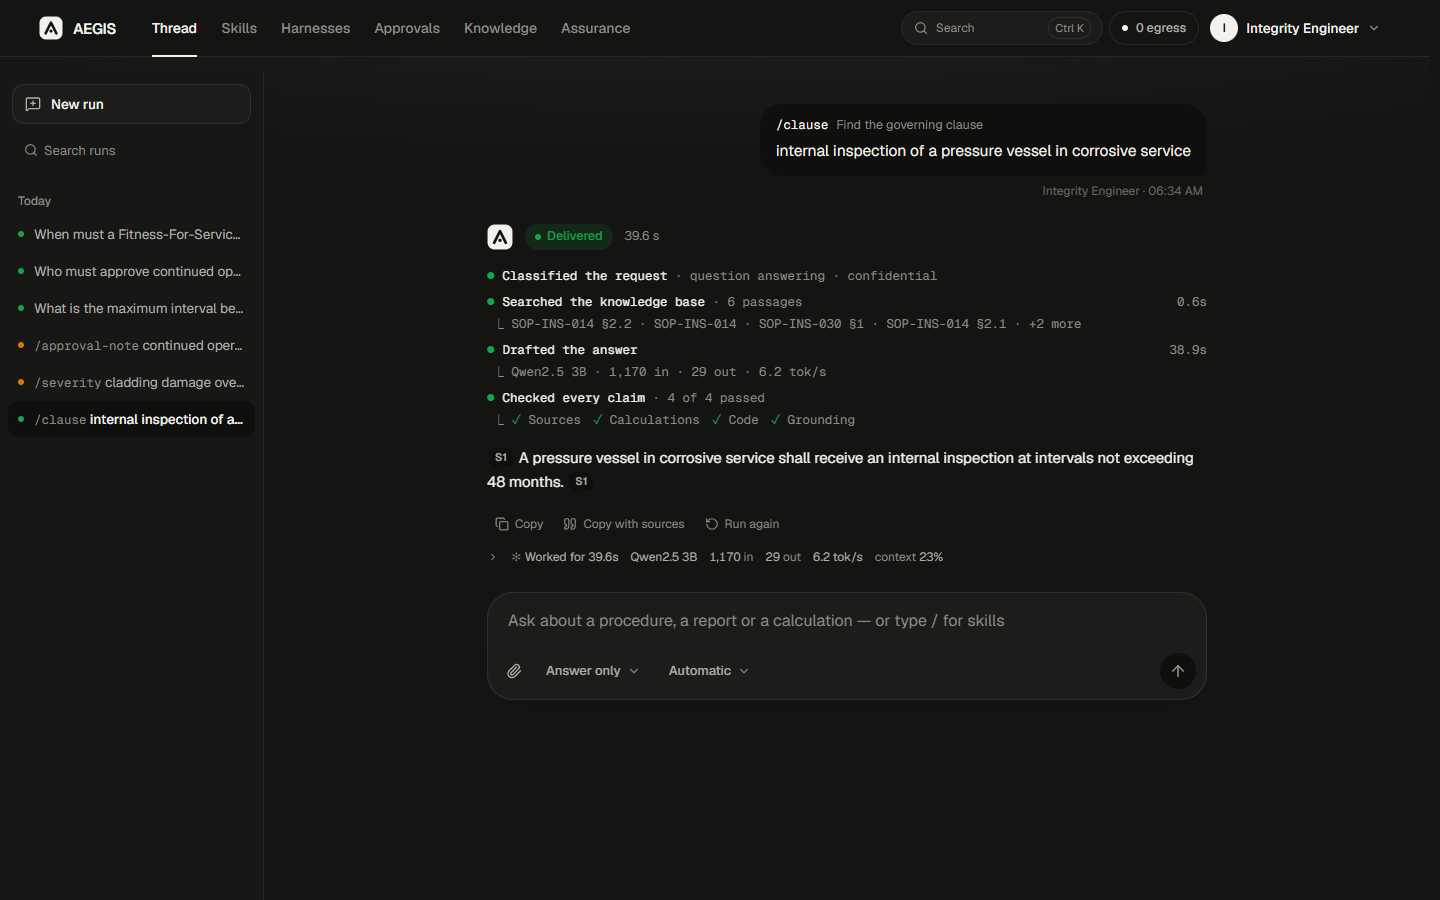
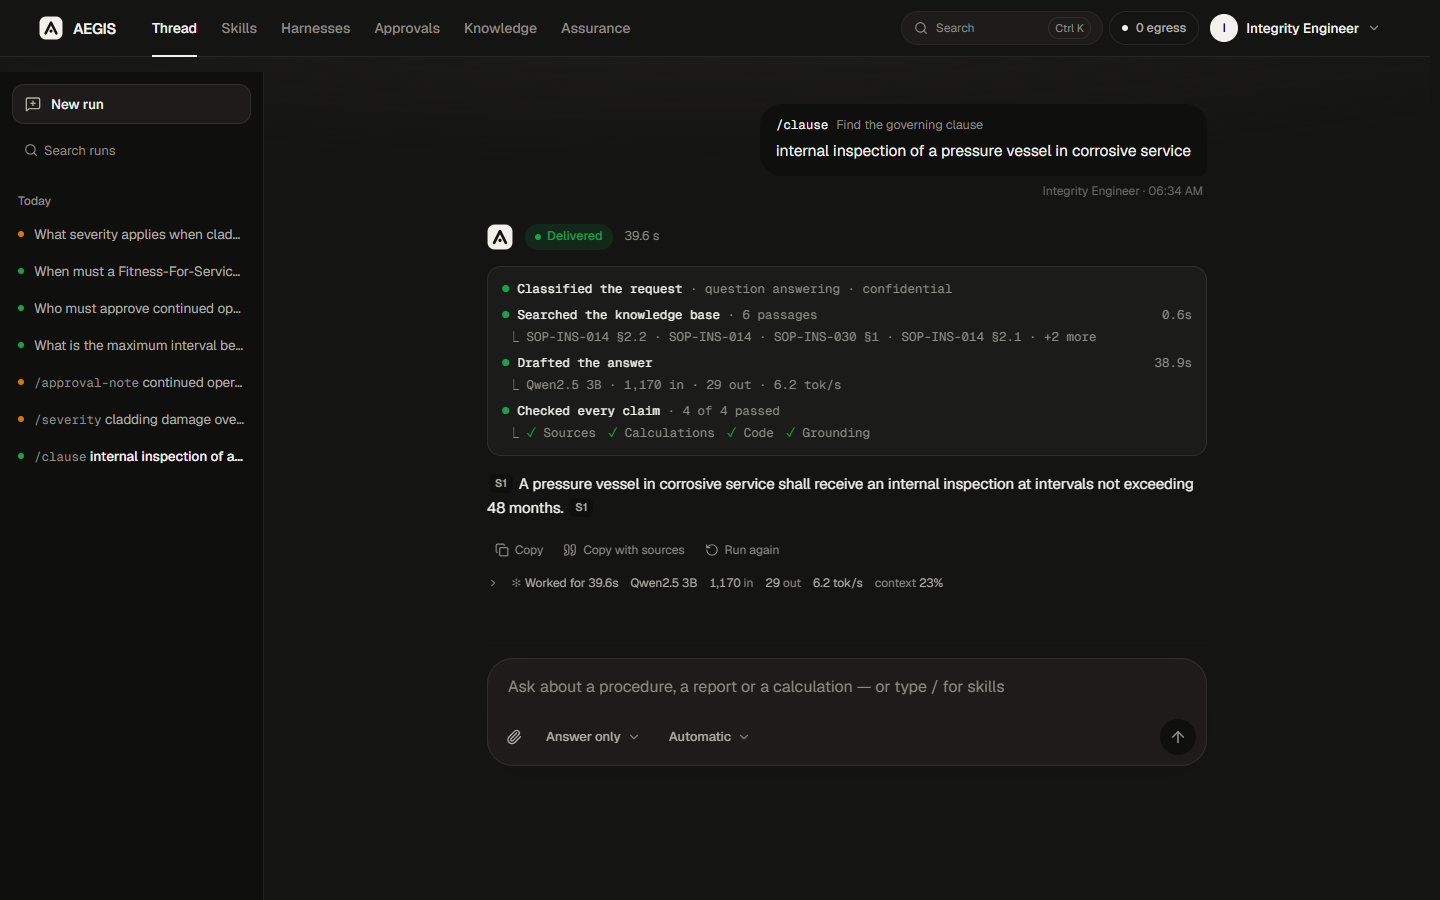
Separate the thread's grounds, give sign-in a night panel, fix what spilled
The thread was one sheet of paper. Now each part has its own ground,
all of it static CSS -- nothing draws per frame on the thread that
parses the event stream:

- The run list sits on the recessed ground, set off by its rule.
- The run's log is a terminal card of its own, so the machine's record
  and the answer's prose no longer read as one block.
- The composer, docked, has the thread fade out beneath it instead of
  text meeting its edge.
- The empty thread has a faint dot lattice around the greeting. It
  reaches past the column but stops short of the run list.

Sign-in is split from a laptop's width up: the landing page's night
ground with its headline and three guarantees on the left, the form on
the right. On a phone it is the form alone, as before.

An overflow audit ran every app screen at 390, 768, 1024, 1280 and 1440
pixels, for each role that sees it: page-level horizontal scroll, boxes
whose content paints past them, and anything past the viewport's edge.
Nothing scrolled sideways. What it and a look at each screen found:

- Knowledge listed each document by its absolute path, which printed
  the machine's user folder into every screenshot; it shows the path
  from the project root, with the full path on hover. The ingested
  column wrapped "06:33 AM" onto a second line and is now 24-hour.
- A tab row too wide for a phone cut its last tab off with no sign of
  more; it now fades at the edge and packs tighter below 640px.
[…]

diff --git a/frontend/components/registry/tables.tsx b/frontend/components/registry/tables.tsx
@@ -19,7 +19,18 @@ function day(iso: string) {
   const d = new Date(iso)
   return Number.isNaN(d.getTime())
     ? '—'
-    : d.toLocaleString([], { day: '2-digit', month: 'short', hour: '2-digit', minute: '2-digit' })
+    : d.toLocaleString([], { day: '2-digit', month: 'short', hour: '2-digit', minute: '2-digit', hour12: false })
+}
+
+/**
+ * Where a document came from, from the project root down: the full path
+ * names the machine's user folder, which a screenshot has no need to carry.
+ * The full path stays on hover for the operator who wants the file.
+ */
+function shownPath(path: string) {
+  const unix = path.split('\\').join('/')
+  const at = unix.search(/\/(sample_data|storage)\//)
+  return at >= 0 ? unix.slice(at + 1) : unix.split('/').slice(-2).join('/')
 }
 
 const TH = 'px-4 py-2 text-left font-mono text-ledger font-normal uppercase tracking-[var(--ls-ledger)] text-foreground-muted'
@@ -82,7 +93,9 @@ export function DocumentsTable({ documents, emptyAction }: { documents: Knowledg
                   <span className="min-w-0 text-body font-medium text-foreground">{d.title}</span>
                   <ClassificationTag level={d.classification} />
                 </div>
-                <span className="truncate font-mono text-ledger text-foreground-muted">{d.source_path}</span>
+                <span className="truncate font-mono text-ledger text-foreground-muted" title={d.source_path}>
+                  {shownPath(d.source_path)}
+                </span>
                 <span className="tabular flex flex-wrap gap-x-3 font-mono text-ledger text-foreground-secondary">
                   <span>{d.department}</span>
                   <span>v{d.version}</span>
@@ -135,7 +148,7 @@ export function DocumentsTable({ documents, emptyAction }: { documents: Knowledg
                       {d.title}
                     </span>
                     <span className="block truncate font-mono text-ledger text-foreground-muted" title={d.source_path}>
-                      {d.source_path} · v{d.version}
+                      {shownPath(d.source_path)} · v{d.version}
                     </span>
                   </div>
                   <div role="cell" className={cn(TD, 'truncate font-mono text-ui text-foreground-secondary')}>
@@ -153,7 +166,7 @@ export function DocumentsTable({ documents, emptyAction }: { documents: Knowledg
                   >
                     {formatBytes(d.size_bytes)}
                   </div>
-                  <div role="cell" className={cn(TD, 'tabular hidden font-mono text-ui text-foreground-secondary lg:block')}>
+                  <div role="cell" className={cn(TD, 'tabular hidden whitespace-nowrap font-mono text-ui text-foreground-secondary lg:block')}>
                     {day(d.ingested_at)}
                   </div>
                   <div

diff --git a/frontend/components/sign-in/sign-in-view.tsx b/frontend/components/sign-in/sign-in-view.tsx
@@ -14,6 +14,7 @@ import { useRole } from '@/components/role-context'
 import { Wordmark } from '@/components/landing/wordmark'
 import { cn } from '@/lib/utils'
 import { HostStatus } from './host-status'
+import { HERO } from '@/components/landing/copy'
 
 /**
  * Where to go after signing in: the path the guard bounced from, if it is a
@@ -131,12 +132,46 @@ export function SignInView({ api }: { api: string }) {
   }
 
   return (
-    <div className="flex min-h-dvh flex-col bg-background">
-      <header className="ae-shell flex h-16 items-center justify-between">
+    <div className="flex min-h-dvh bg-background">
+      {/*
+        The brand panel, from a laptop's width up: the landing page's night
+        ground and its three guarantees, so signing in reads as the same
+        product as the page that led here. Static CSS; nothing moves.
+      */}
+      <aside
+        data-theme="dark"
+        aria-label="About AEGIS"
+        className="ae-night ae-signin-panel sticky top-0 hidden h-dvh w-[44%] max-w-[620px] shrink-0 flex-col justify-between p-10 lg:flex xl:p-14"
+      >
         <Link
           href="/"
           aria-label="AEGIS — home"
-          className="rounded-full focus-visible:shadow-[var(--focus-ring-on-paper)] focus-visible:outline-none"
+          className="w-fit rounded-full focus-visible:shadow-[var(--focus-ring)] focus-visible:outline-none"
+        >
+          <Wordmark />
+        </Link>
+        <div>
+          <p className="ae-kicker m-0">On your own hardware</p>
+          <h2 className="mt-4 max-w-[16ch] text-[clamp(2rem,3vw,2.7rem)] font-semibold leading-[1.06] tracking-[-0.038em] text-foreground">
+            Every answer cited, <span className="soft">checked and recorded.</span>
+          </h2>
+          <ul className="ae-hero-proof mt-8 flex-col items-start justify-start gap-3">
+            {HERO.proof.map((line) => (
+              <li key={line}>{line}</li>
+            ))}
+          </ul>
+        </div>
+        <p className="m-0 max-w-[44ch] text-[0.82rem] leading-[1.55] text-foreground-muted">
+          Models, retrieval and the audit chain run on the machine you are signing in to.
+        </p>
+      </aside>
+
+      <div className="flex min-h-dvh min-w-0 flex-1 flex-col">
+      <header className="flex h-16 items-center justify-between px-5 sm:px-8">
+        <Link
+          href="/"
+          aria-label="AEGIS — home"
+          className="rounded-full focus-visible:shadow-[var(--focus-ring-on-paper)] focus-visible:outline-none lg:invisible"
         >
           <Wordmark />
         </Link>
@@ -265,6 +300,7 @@ export function SignInView({ api }: { api: string }) {
           </div>
         </div>
       </main>
+      </div>
     </div>
   )
 }

diff --git a/frontend/app/globals.css b/frontend/app/globals.css
@@ -2218,7 +2218,8 @@ html[data-theme='dark'],
   }
   .ae-hero-stage { position: relative; z-index: 2; margin-top: calc(-1 * var(--ae-overlap)); }
   .ae-hero-band .ae-display .soft,
-  .ae-footer-title .soft {
+  .ae-footer-title .soft,
+  .ae-signin-panel .soft {
     background: linear-gradient(95deg, oklch(0.88 0.08 62) 0%, oklch(0.82 0.1 20) 45%, oklch(0.8 0.1 300) 100%);
     -webkit-background-clip: text; background-clip: text; color: transparent;
   }
@@ -2301,5 +2302,34 @@ html[data-theme='dark'],
   @media (max-width: 640px) {
     .ae-hero { --ae-overlap: 110px; }
     .ae-hero-proof { gap: 6px 16px; font-size: 0.78rem; }
+  }
+}
+
+/* ==================================================================== */
+/* The thread's grounds                                                 */
+/*                                                                      */
+/* Four surfaces that used to be one sheet: the run list on a recessed  */
+/* ground, the run's log on a card of its own, the answer on the page,  */
+/* and the composer docked over a fade. All static: nothing here draws  */
+/* per frame on the thread that parses the event stream.                */
+/* ==================================================================== */
+@layer components {
+  /* The run's log: a terminal card, apart from the answer's prose. */
+  .thread-log { background: color-mix(in oklab, var(--foreground) 2.5%, var(--background)); }
+  [data-theme='dark'] .thread-log { background: color-mix(in oklab, var(--foreground) 4%, var(--background)); }
+
+  /* The docked composer: the thread fades out beneath it instead of meeting an edge. */
+  .thread-dock { background: linear-gradient(to top, var(--background) 60%, transparent); }
+
+  /* The empty thread: a faint lattice around the greeting. It reaches past
+     the column but stops short of the run list at every width it shows at. */
+  .thread-empty { position: relative; isolation: isolate; }
+  .thread-empty::before {
+    content: ''; position: absolute; top: 0; bottom: 0; left: 50%; z-index: -1; pointer-events: none;
+    width: calc(100% + 240px); transform: translateX(-50%);
+    background-image: radial-gradient(circle, color-mix(in oklab, var(--foreground) 26%, transparent) 1px, transparent 1.5px);
+    background-size: 22px 22px;
+    -webkit-mask-image: radial-gradient(ellipse 55% 42% at 50% 40%, #000 8%, transparent 72%);
+            mask-image: radial-gradient(ellipse 55% 42% at 50% 40%, #000 8%, transparent 72%);
   }
 }

diff --git a/frontend/features/thread/ui/thread-view.tsx b/frontend/features/thread/ui/thread-view.tsx
@@ -1048,7 +1048,7 @@ export function ThreadView() {
       <TraceScope
         className={cn(
           'mx-auto flex w-full max-w-[768px] flex-col gap-6 px-5 sm:px-6',
-          turns.length === 0 ? 'min-h-[calc(100dvh-var(--shell-top))] justify-center pb-[12vh] pt-8' : 'py-8',
+          turns.length === 0 ? 'thread-empty min-h-[calc(100dvh-var(--shell-top))] justify-center pb-[12vh] pt-8' : 'pt-8',
           // Above 1280px the rail docks rather than overlays, so the column
           // steps aside instead of being covered. Checking a citation should
           // never cost you the sentence that made the claim. It steps at
@@ -1090,7 +1090,7 @@ export function ThreadView() {
           ),
         )}
 
-        <div className={cn('z-[var(--z-rail)]', turns.length > 0 && 'sticky bottom-6')}>
+        <div className={cn('z-[var(--z-rail)]', turns.length > 0 && 'thread-dock sticky bottom-0 pb-6 pt-10')}>
           {/* Only while a run is writing below the fold: the one moment a
               reader who scrolled up to check something needs a way back. */}
           {busy && awayFromEnd && (

diff --git a/frontend/features/thread/ui/session-rail.tsx b/frontend/features/thread/ui/session-rail.tsx
@@ -146,7 +146,7 @@ export const SessionRail = memo(function SessionRail({
       // Sticky under the fixed header, so the list stays in reach however
       // long the thread beside it grows. Sized against the shell's own
       // inset rather than a literal, which is right under either header.
-      className="sticky top-[var(--shell-top)] hidden h-[calc(100dvh-var(--shell-top))] w-[264px] shrink-0 flex-col self-start border-r border-line-subtle bg-[color-mix(in_oklab,var(--foreground)_2%,var(--background))] lg:flex"
+      className="sticky top-[var(--shell-top)] hidden h-[calc(100dvh-var(--shell-top))] w-[264px] shrink-0 flex-col self-start border-r border-line-subtle bg-surface-sunken lg:flex"
     >
       <div className="px-3 pb-2 pt-3">
         <button

diff --git a/frontend/shared/ui/controls/tabs.tsx b/frontend/shared/ui/controls/tabs.tsx
@@ -68,7 +68,10 @@ export function Tabs<V extends string>({
       aria-label={label}
       onKeyDown={onKeyDown}
       className={cn(
-        'flex max-w-full items-end gap-6 overflow-x-auto border-b border-line-default [scrollbar-width:none]',
+        // On a phone the row can outrun the screen: it scrolls, and its
+        // right edge fades so the tab past it reads as more, not as cut off.
+        'flex max-w-full items-end gap-4 overflow-x-auto border-b border-line-default [scrollbar-width:none] sm:gap-6',
+        'max-sm:[-webkit-mask-image:linear-gradient(90deg,#000_82%,transparent)] max-sm:[mask-image:linear-gradient(90deg,#000_82%,transparent)]',
         className,
       )}
     >

diff --git a/frontend/features/thread/ui/run-transcript.tsx b/frontend/features/thread/ui/run-transcript.tsx
@@ -145,7 +145,10 @@ export const RunTranscript = memo(function RunTranscript({ turn }: { turn: Assis
   if (lines.length === 0 && !waiting) return null
 
   return (
-    <ol aria-label="What the run did" className="m-0 flex list-none flex-col gap-1.5 p-0 font-mono text-[12.5px] leading-[1.6]">
+    <ol
+      aria-label="What the run did"
+      className="thread-log m-0 flex list-none flex-col gap-1.5 rounded-[14px] border border-line-subtle px-3.5 py-3 font-mono text-[12.5px] leading-[1.6]"
+    >
       {waiting && turn.queue && (
         <li className="flex items-baseline gap-2 text-foreground-secondary">
           <Spinner />
